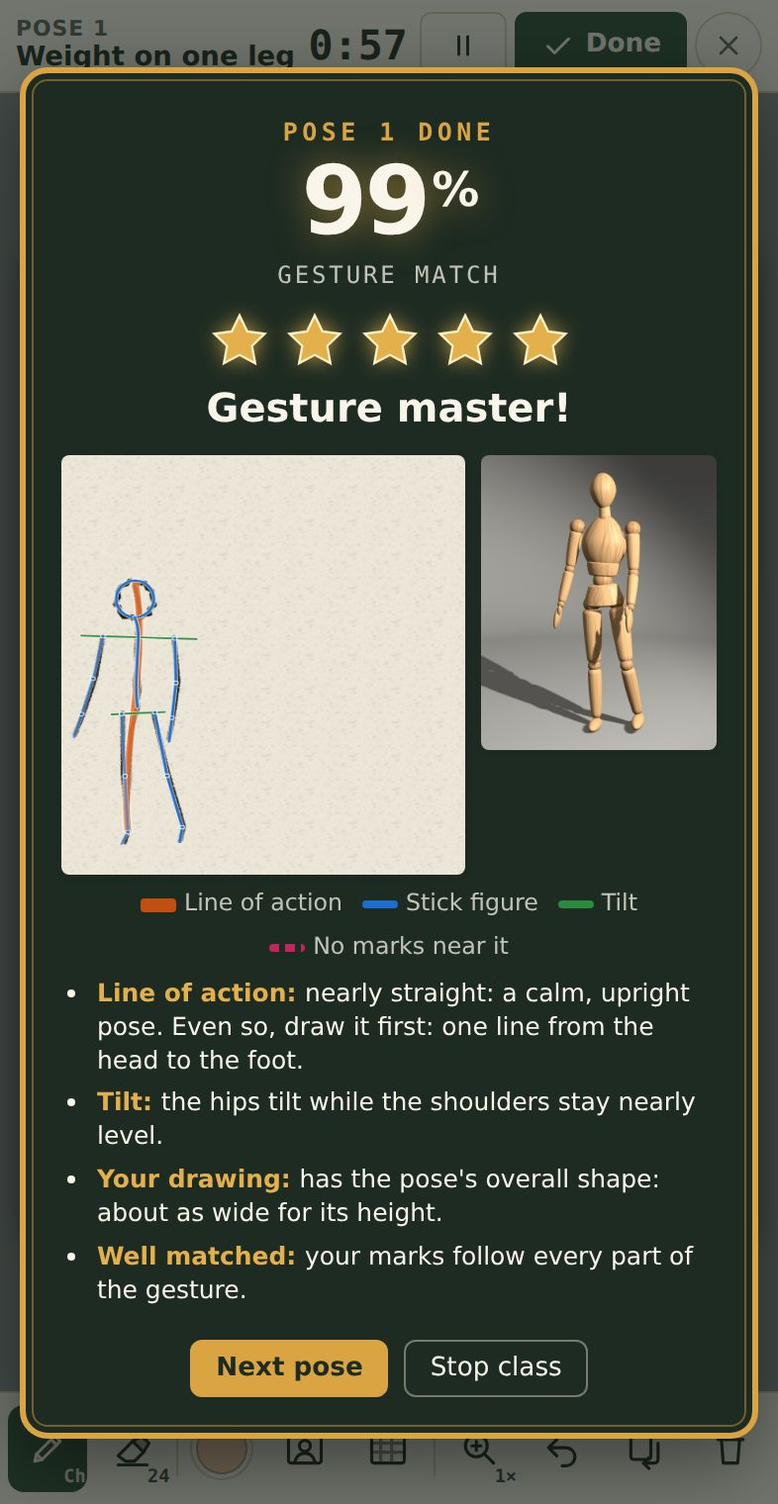
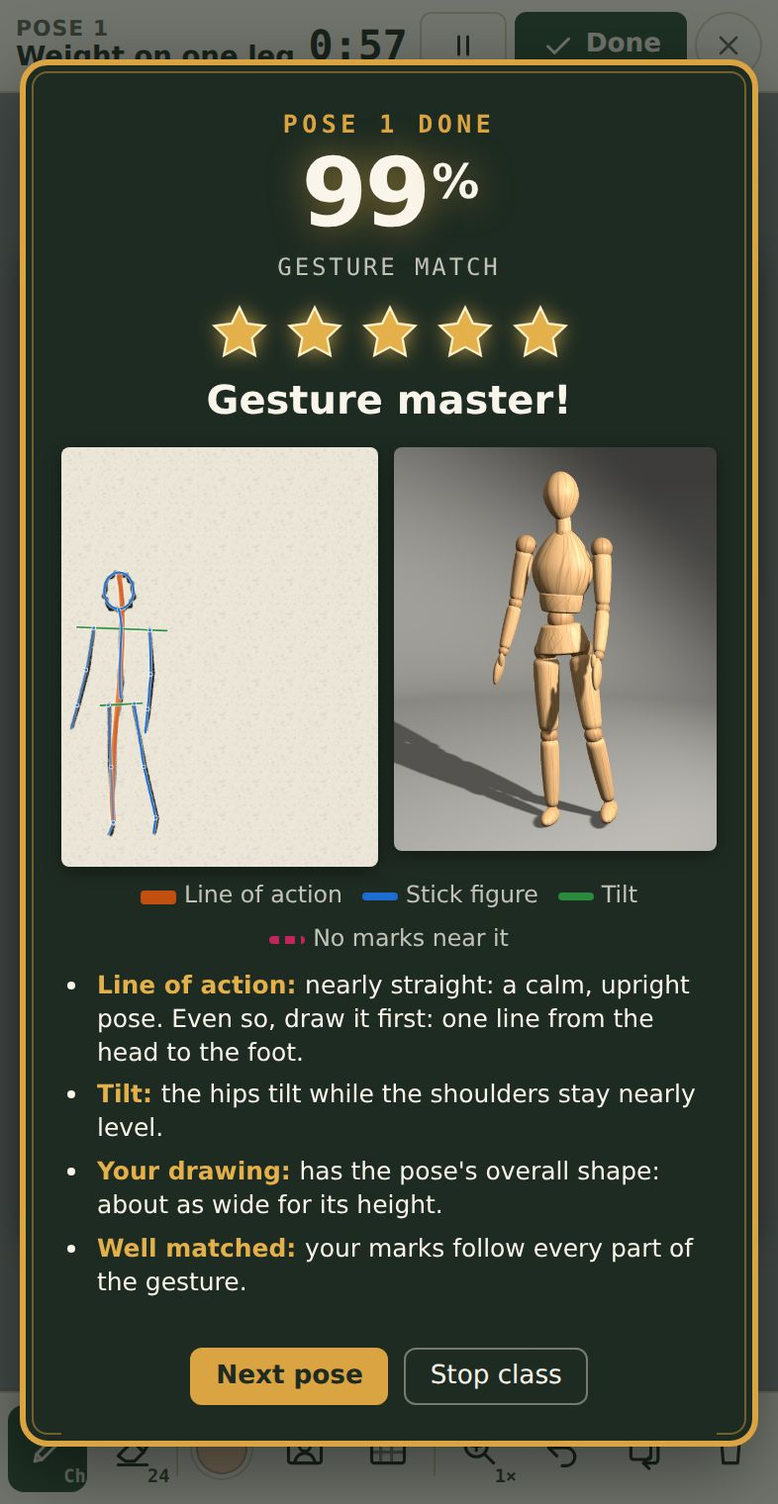
Figure study: fixes from review of the score card
- Drawing the cast shadow the reference shows no longer sinks the
  stars, and a name, a label or a line across the sheet is left out of
  the drawing's shape (only shadow patches touching the figure count,
  so the studio's dark edges are not taken for one).
- When something other than a dashed part takes the stars down, the
  card says so (Extra marks, Off the figure) instead of "Well matched".
- A thin, light line on a small drawing is no longer missed.
- The card's buttons wait 0.6 s, so a tap already on its way does not
  stop the class; they stay in view at the bottom of the card on short
  screens; the drawing on it keeps its shape.
- Screen readers hear the score (the status line is outside the part
  that goes inert); the card is no longer marked modal; the review's
  stars are read out; "your saved poses" and "1 star" read right.
- The library catches up with poses saved in Pose and light during a
  class, and Timed reads "a time limit on each pose".

Claude-Session: https://claude.ai/code/session_01XVREo3r8Hxw4H8arPAzQN1

Changed region(s): [[0.0305, 0.0309, 0.9771, 0.9895]]

diff --git a/js/figure.js b/js/figure.js
@@ -38,6 +38,7 @@
   panel.appendChild(root);
   root.insertBefore($('bar'), root.firstChild);
   root.appendChild($('result'));
+  panel.appendChild($('say'));         // (outside the studio, which goes inert behind the card)
   const studio = PaintStudio.create({
     root, prefix: 'fs-', bodyClass: 'figure-focus', followStudy: false, autosave: false,
     mixesKey: 'portrait-value-studio.figureMixes', fileName: 'figure-drawing.png', refSize: 0.42,
@@ -174,7 +175,7 @@
     panel.querySelectorAll('.fig-group-btn').forEach((b) => {
       const ids = poses.filter((q) => q.group === b.dataset.group).map((q) => q.id), anyIn = ids.some((id) => !out.has(id));
       b.textContent = anyIn ? 'Take these out' : 'Put these back';
-      b.setAttribute('aria-label', `${anyIn ? 'Take out' : 'Put back'} the ${b.dataset.title.toLowerCase()} poses`);
+      b.setAttribute('aria-label', `${anyIn ? 'Take out' : 'Put back'} ${b.dataset.group === 'mine' ? 'your saved poses' : `the ${b.dataset.title.toLowerCase()} poses`}`);
     });
     const n = pool().length, all = poses ? poses.length : 0;
     if (poses) $('mix').textContent = n === all ? `All ${all} poses are in the class, in a random order. Tap a pose, or a group's button, to take it out.` : n ? `${n} of the ${all} poses are in the class, in a random order.` : 'Every pose is out of the class. Tap one to put it back.';
@@ -343,6 +344,8 @@
     hideResult();
     studio.setLocked(false);
     cls = null;
+    // the poses saved in Pose and light may have changed during the class
+    if (poses) tellFrame({ type: 'pose-and-light:list' });
     // a class with nothing drawn in it goes straight back to the setup (the drawings before stay)
     if (!c.results.some((r) => r.analysis.marked)) { show('setup'); showSetup(); $('start').focus(); return; }
     last = c;
@@ -478,11 +481,14 @@
   // have any mark in them; x0, y0 is where the grid starts on the paper
   const GRID = 240;
   function inkMap(ink, r) {
+    const whole = !r;
     r = r || { x: 0, y: 0, w: ink.width, h: ink.height };
     const s = Math.min(1, GRID / Math.max(r.w, r.h));
     const w = Math.max(1, Math.round(r.w * s)), h = Math.max(1, Math.round(r.h * s));
     const c = document.createElement('canvas'); c.width = w; c.height = h;
     const x = c.getContext('2d', { willReadFrequently: true });
+    // (the whole sheet is shrunk a lot: averaged, so a thin light line is not skipped between samples)
+    if (whole) x.imageSmoothingQuality = 'high';
     x.drawImage(ink, r.x, r.y, r.w, r.h, 0, 0, w, h);
     const d = x.getImageData(0, 0, w, h).data, on = new Uint8Array(w * h);
     let n = 0;
@@ -526,7 +532,7 @@
     const on = new Uint8Array(w * h);
     let n = 0;
     for (let i = 0; i < w * h; i++) if (m.on[i] && keep[label[i]]) { on[i] = 1; n++; }
-    return { w, h, s: m.s, x0: m.x0, y0: m.y0, on, n };
+    return { w, h, s: m.s, x0: m.x0, y0: m.y0, on, n, label, pieces: sizes.length };
   }
   // how far each cell is from the nearest mark, in cells (two sweeps, steps of 3 straight and 4 across)
   function distances(m) {
@@ -560,8 +566,9 @@
     return out;
   }
   // The wooden figure's own shape in its reference picture (the wood, told from the gray studio by its
-  // color), as a grid of cells and how far each is from the figure. Made once for a pose, when its picture
-  // has been loaded (shot.img).
+  // color), as a grid of cells and how far each is from the figure, and its cast shadow on the floor
+  // (gray, darker than the floor, in the lower half, touching the figure, and a little past its soft
+  // edge). Made once for a pose, when its picture has been loaded (shot.img).
   function figureMask(shot) {
     if (shot.mask !== undefined) return shot.mask;
     if (!shot.img) return null;
@@ -569,9 +576,34 @@
     const c = document.createElement('canvas'); c.width = w; c.height = h;
     const x = c.getContext('2d', { willReadFrequently: true });
     x.drawImage(shot.img, 0, 0, w, h);
-    const px = x.getImageData(0, 0, w, h).data, on = new Uint8Array(w * h);
-    for (let i = 0; i < w * h; i++) { const r = px[i * 4], b = px[i * 4 + 2]; on[i] = r - b > 20 && r > 55 ? 1 : 0; }
-    shot.mask = { w, h, s, d: distances({ w, h, on }) };
+    const px = x.getImageData(0, 0, w, h).data, on = new Uint8Array(w * h), cast = new Uint8Array(w * h);
+    for (let i = 0; i < w * h; i++) {
+      const r = px[i * 4], gr = px[i * 4 + 1], b = px[i * 4 + 2];
+      on[i] = r - b > 20 && r > 55 ? 1 : 0;
+      cast[i] = !on[i] && Math.abs(r - b) < 12 && 0.3 * r + 0.59 * gr + 0.11 * b < 110 && i >= w * Math.floor(h * 0.5) ? 1 : 0;
+    }
+    const dc = distances({ w, h, on: cast }), d = distances({ w, h, on });
+    for (let i = 0; i < w * h; i++) cast[i] = !on[i] && dc[i] <= 3 ? 1 : 0;
+    // only the patches that touch the figure, as a cast shadow does (the studio's dark edges do not)
+    let x0 = w, x1 = 0, y0 = h, y1 = 0;
+    for (let i = 0; i < w * h; i++) if (on[i]) { const x = i % w, y = Math.floor(i / w); x0 = Math.min(x0, x); x1 = Math.max(x1, x); y0 = Math.min(y0, y); y1 = Math.max(y1, y); }
+    const near = 0.1 * Math.max(1, x1 - x0, y1 - y0), seen = new Uint8Array(w * h), stack = [];
+    for (let start = 0; start < w * h; start++) {
+      if (!cast[start] || seen[start]) continue;
+      const patch = [];
+      let low = Infinity;
+      seen[start] = 1; stack.push(start);
+      while (stack.length) {
+        const c = stack.pop(), x = c % w, y = (c - x) / w;
+        patch.push(c); low = Math.min(low, d[c]);
+        if (x > 0 && cast[c - 1] && !seen[c - 1]) { seen[c - 1] = 1; stack.push(c - 1); }
+        if (x < w - 1 && cast[c + 1] && !seen[c + 1]) { seen[c + 1] = 1; stack.push(c + 1); }
+        if (y > 0 && cast[c - w] && !seen[c - w]) { seen[c - w] = 1; stack.push(c - w); }
+        if (y < h - 1 && cast[c + w] && !seen[c + w]) { seen[c + w] = 1; stack.push(c + w); }
+      }
+      if (low > near) patch.forEach((c) => { cast[c] = 0; });
+    }
+    shot.mask = { w, h, s, d, cast };
     return shot.mask;
   }
   /*
@@ -583,7 +615,7 @@
   function analyze(shot, ink) {
     const g = gestureOf(shot), W = ink.width, H = ink.height;
     const m0 = inkMap(ink), marked = m0.n >= 25;
-    let map, match = null, inkBox = null, score = 0, scoreParts = null;
+    let map, match = null, inkBox = null, shapeBox = null, score = 0, scoreParts = null;
     const kRef = Math.min(W / shot.w, H / shot.h);
     const refMap = { k: kRef, ox: (W - shot.w * kRef) / 2, oy: (H - shot.h * kRef) / 2 };
     if (marked) {
@@ -688,26 +720,49 @@
       // how near a cell of the grid is to the figure in the reference: its distance from the wood, as a
       // part of the gesture's size, turned into credit
       const fig = figureMask(shot);
-      const onFigure = fig && ((cx2, cy2) => {
+      // a cell of the grid, in the reference's figure mask (-1 off it)
+      const figCell = (cx2, cy2) => {
         const x = Math.round(((m.x0 + (cx2 + 0.5) / m.s) - map.ox) / map.k * fig.s), y = Math.round(((m.y0 + (cy2 + 0.5) / m.s) - map.oy) / map.k * fig.s);
-        if (x < 0 || y < 0 || x >= fig.w || y >= fig.h) return 0;
-        const f = fig.d[y * fig.w + x] / fig.s / g.size;
-        return Math.max(0, Math.min(1, 1 - (f - 0.02) / 0.03));
+        return x < 0 || y < 0 || x >= fig.w || y >= fig.h ? -1 : y * fig.w + x;
+      };
+      const onFigure = fig && ((cx2, cy2) => {
+        const i = figCell(cx2, cy2);
+        return i < 0 ? 0 : Math.max(0, Math.min(1, 1 - (fig.d[i] / fig.s / g.size - 0.02) / 0.03));
       });
+      // the cast shadow, as the reference shows it: drawing it is no scribble, and no part of the figure
+      const onCast = (cx2, cy2) => { if (!fig) return false; const i = figCell(cx2, cy2); return i >= 0 && fig.cast[i] === 1; };
       // how much of the room around the figure (inside the drawing's box) has marks in it: a drawing
-      // leaves it nearly empty (a floor line, a cast shadow), a scribble fills it as much as the figure
+      // leaves it nearly empty (a floor line, the cast shadow), a scribble fills it as much as the figure
       let room = 0, filled = 0;
       if (fig) {
         for (let y = b.y; y < b.y + b.h; y++) for (let x = b.x; x < b.x + b.w; x++) {
-          const fx = Math.round(((m.x0 + (x + 0.5) / m.s) - map.ox) / map.k * fig.s), fy = Math.round(((m.y0 + (y + 0.5) / m.s) - map.oy) / map.k * fig.s);
-          const off = fx < 0 || fy < 0 || fx >= fig.w || fy >= fig.h || fig.d[fy * fig.w + fx] / fig.s / g.size > 0.06;
-          if (off) { room++; if (m.on[y * m.w + x]) filled++; }
+          const i = figCell(x, y), off = i < 0 || fig.d[i] / fig.s / g.size > 0.06;
+          if (off && !onCast(x, y)) { room++; if (m.on[y * m.w + x]) filled++; }
         }
       }
       const clean = room > 20 ? Math.max(0, Math.min(1, 1 - (filled / room - 0.04) / 0.12)) : 1;
-      ({ score, ...scoreParts } = scoreOf(g, samples.map(({ key, p }) => ({ key, d: at(map, p) })), unitPx, inkPts, g.parts.map((part) => part.pts.map((q) => [gx(map.ox + q.x * map.k), gy(map.oy + q.y * map.k)])), inkBox, onFigure, clean, Object.values(match).filter((ok) => !ok).length));
+      // The drawing's own box, for its overall shape: the pieces of marks that are mostly on the figure
+      // (a name, a label or a line across the sheet is not part of it), leaving out the cast shadow.
+      shapeBox = inkBox;
+      if (fig) {
+        const onIt = new Uint32Array(main.pieces), all = new Uint32Array(main.pieces);
+        for (let i = 0; i < m.w * m.h; i++) {
+          if (!main.on[i]) continue;
+          const x = i % m.w, y = Math.floor(i / m.w);
+          all[main.label[i]]++;
+          if (onFigure(x, y) > 0) onIt[main.label[i]]++;
+        }
+        const kept = { w: m.w, h: m.h, on: new Uint8Array(m.w * m.h), n: 0 };
+        for (let i = 0; i < m.w * m.h; i++) {
+          if (!main.on[i] || onIt[main.label[i]] < 0.3 * all[main.label[i]] || onCast(i % m.w, Math.floor(i / m.w))) continue;
+          kept.on[i] = 1; kept.n++;
+        }
+        if (kept.n >= 25) { const kb = boxOf(kept); shapeBox = { x: m.x0 + kb.x / m.s, y: m.y0 + kb.y / m.s, w: kb.w / m.s, h: kb.h / m.s }; }
+      }
+      const figPts = inkPts.filter(([px, py]) => !onCast(px, py));
+      ({ score, ...scoreParts } = scoreOf(g, samples.map(({ key, p }) => ({ key, d: at(map, p) })), unitPx, figPts, g.parts.map((part) => part.pts.map((q) => [gx(map.ox + q.x * map.k), gy(map.oy + q.y * map.k)])), shapeBox, onFigure, clean, Object.values(match).filter((ok) => !ok).length));
     } else map = refMap;
-    return { g, map, match, inkBox, marked, score, scoreParts, stars: marked ? starsFor(score) : 0, tips: notes(g, marked ? inkBox : null, match) };
+    return { g, map, match, inkBox, marked, score, scoreParts, stars: marked ? starsFor(score) : 0, tips: notes(g, marked ? shapeBox : null, match, scoreParts) };
   }
   /*
    * How well a drawing follows its pose's gesture, from 0 to 100 (all lengths are parts of the gesture's
@@ -756,7 +811,7 @@
   const GRADES = ['Keep drawing', 'Keep drawing', 'Getting there', 'Good gesture', 'Strong gesture!', 'Gesture master!'];
   const starsFor = (pct) => STARS.filter((min) => pct >= min).length;
   // what to look for: the line of action, the tilts, the size in heads, the drawing's shape, missed parts
-  function notes(g, inkBox, match) {
+  function notes(g, inkBox, match, sp) {
     const tips = [], P = g.P, head = g.head.a * 2, a = g.action;
     const lean = Math.abs(Math.atan2(a.p3.x - a.p0.x, a.p3.y - a.p0.y)) * 180 / Math.PI, slant = Math.min(lean, 180 - lean);
     tips.push(['Line of action', {
@@ -787,7 +842,11 @@
           : 'has the pose\'s overall shape: about as wide for its height.']);
       const missed = g.parts.filter((p) => match[p.key] === false).map((p) => p.name);
       const list = missed.length > 1 ? `${missed.slice(0, -1).join(', ')} and ${missed[missed.length - 1]}` : missed[0];
-      tips.push(missed.length ? ['Dashed', `no marks near ${list}. Look again at where ${missed.length > 1 ? 'they go' : 'it goes'}.`] : ['Well matched', 'your marks follow every part of the gesture.']);
+      // (praise only when nothing else took the stars down: marks around the figure, or off it)
+      if (missed.length) tips.push(['Dashed', `no marks near ${list}. Look again at where ${missed.length > 1 ? 'they go' : 'it goes'}.`]);
+      else if (sp && sp.clean < 0.9) tips.push(['Extra marks', 'marks fill the space around the figure, and they count against the match. Draw the figure, and leave the room around it empty.']);
+      else if (sp && sp.along < 0.8) tips.push(['Off the figure', 'much of your drawing lies off the figure. Keep your marks on the body, the head and the limbs.']);
+      else tips.push(['Well matched', 'your marks follow every part of the gesture.']);
     } else tips.push(['Nothing drawn', 'the gesture is shown where the reference would sit.']);
     return tips;
   }
@@ -802,7 +861,9 @@
   // Under it the drawing with the gesture over it, beside the pose, and the notes. The rest of the
   // studio waits behind it until Next pose or Stop class.
   const reduceMotion = window.matchMedia('(prefers-reduced-motion: reduce)');
-  let resultShown = false, countUp = 0;
+  let resultShown = false, countUp = 0, cardAt = 0;
+  // a tap already on its way when the card comes, or a second Enter on Done, does not answer it
+  const cardSettled = () => performance.now() - cardAt >= 600;
   function drawWithGesture(canvas, r, img) {
     const g = canvas.getContext('2d');
     g.drawImage(img, 0, 0, canvas.width, canvas.height);
@@ -812,6 +873,7 @@
   function showResult(r, timedOut) {
     const a = r.analysis, pct = a.score, stars = a.stars;
     resultShown = true;
+    cardAt = performance.now();
     $('kicker').textContent = timedOut ? 'Time’s up!' : `Pose ${r.n} done`;
     $('grade').textContent = a.marked ? GRADES[stars] : 'Nothing drawn';
     $('stars').setAttribute('aria-label', `${stars} out of 5 stars, ${pct}% gesture match`);
@@ -843,7 +905,7 @@
       };
       countUp = requestAnimationFrame(step);
     }
-    $('say').textContent = `${$('kicker').textContent} ${r.name}: ${a.marked ? `${stars} out of 5 stars, ${pct}% gesture match. ${GRADES[stars]}` : 'nothing drawn'}.`;
+    $('say').textContent = `${$('kicker').textContent} ${r.name}: ${a.marked ? `${stars} out of 5 stars, ${pct}% gesture match. ${GRADES[stars]}` : 'nothing drawn'}`.replace(/([^!.])$/, '$1.');
     $('nextPose').focus({ preventScroll: true });
   }
   function hideResult() {
@@ -853,13 +915,13 @@
     [...root.children].forEach((el) => { el.inert = false; });
   }
   $('nextPose').addEventListener('click', () => {
-    if (!cls || !resultShown) return;
+    if (!cls || !resultShown || !cardSettled()) return;
     $('nextPose').disabled = true;            // (one pose for one tap)
     hideResult();
     $('done').focus({ preventScroll: true });
     showPose();
   });
-  $('stop').addEventListener('click', () => { if (cls) finish(); });
+  $('stop').addEventListener('click', () => { if (cls && cardSettled()) finish(); });
 
   // ---- The review ------------------------------------------------------------------------------------
 
@@ -873,7 +935,8 @@
   function showReview(c) {
     const list = drawn(c), n = list.length;
     const avg = list.reduce((sum, r) => sum + r.analysis.stars, 0) / n;
-    $('reviewLede').textContent = `${n} drawing${n > 1 ? 's' : ''} from ${c.mode === 'timed' ? `a timed class, ${TIMES[c.secs]} a pose` : 'a relaxed class'}, ${half(avg)} star${avg === 1 ? '' : 's'} on average. Each is beside the pose it was drawn from, with the pose's gesture laid over it.`;
+    const shown = half(avg);
+    $('reviewLede').textContent = `${n} drawing${n > 1 ? 's' : ''} from ${c.mode === 'timed' ? `a timed class, ${TIMES[c.secs]} a pose` : 'a relaxed class'}, ${shown} star${shown === '1' || shown === '½' ? '' : 's'} on average. Each is beside the pose it was drawn from, with the pose's gesture laid over it.`;
     const box = $('cards');
     box.textContent = '';
     list.forEach((r, i) => {
@@ -900,8 +963,10 @@
       st.className = 'fig-rating-stars';
       st.textContent = starText(r.analysis.stars);
       st.setAttribute('aria-hidden', 'true');
-      rating.append(st, ` ${r.analysis.score}% · ${GRADES[r.analysis.stars]}`);
-      rating.setAttribute('aria-label', `${r.analysis.stars} out of 5 stars, ${r.analysis.score}% gesture match`);
+      const said = document.createElement('span');
+      said.className = 'visually-hidden';
+      said.textContent = `${r.analysis.stars} out of 5 stars,`;
+      rating.append(st, said, ` ${r.analysis.score}% · ${GRADES[r.analysis.stars]}`);
       const tips = document.createElement('ul');
       tips.className = 'fig-tips';
       showTips(tips, r.analysis.tips.filter(([lead]) => lead !== 'Measure'));
@@ -959,5 +1024,5 @@
   showSetup();
 
   // for tests
-  window.FigureStudy = { gestureOf, fitCurve, analyze, drawGesture, studio, state: () => cls, poses: () => poses, shotOf, starsFor };
+  window.FigureStudy = { gestureOf, fitCurve, analyze, drawGesture, studio, state: () => cls, poses: () => poses, shotOf, starsFor, figureMaskOf: figureMask };
 })();

diff --git a/index.html b/index.html
@@ -601,7 +601,7 @@
               <legend>Class</legend>
               <div class="seg seg-full game-levels" role="radiogroup" aria-label="Class">
                 <input type="radio" name="figClass" id="fig-relaxed" value="relaxed" checked><label for="fig-relaxed">Relaxed<small>no time limit</small></label>
-                <input type="radio" name="figClass" id="fig-timed" value="timed"><label for="fig-timed">Timed<small>a new pose on the clock</small></label>
+                <input type="radio" name="figClass" id="fig-timed" value="timed"><label for="fig-timed">Timed<small>a time limit on each pose</small></label>
               </div>
             </fieldset>
             <fieldset class="field" id="fig-times" hidden>
@@ -655,7 +655,7 @@
         </div>
         <!-- the card after each pose, over the paper -->
         <div class="fig-result" id="fig-result" hidden>
-          <div class="game-popup fig-popup" id="fig-popup" role="dialog" aria-modal="true" aria-labelledby="fig-kicker">
+          <div class="game-popup fig-popup" id="fig-popup" role="dialog" aria-labelledby="fig-kicker" aria-describedby="fig-stars fig-grade">
             <p class="game-kicker" id="fig-kicker">Pose 1 done</p>
             <p class="game-pct"><span id="fig-pct">0</span><span class="game-pct-sign">%</span></p>
             <p class="game-pct-label">gesture match</p>
@@ -1108,8 +1108,8 @@
           </div>
           <div class="help-shots">
             <figure class="phone"><img src="img/help/figure-setup.jpg" alt="The Figure study setup on a phone: Timed, with 1 minute a pose, 27 of the 30 poses in the class, and the pose library with a tick on each pose in it" loading="lazy"><figcaption>Setting up a class</figcaption></figure>
-            <figure class="phone"><img src="img/help/figure-draw.jpg" alt="Drawing the Lunge pose: the bar with the clock and Done on top, the reference in the corner and a quick charcoal gesture drawing on the paper" loading="lazy"><figcaption>Drawing a pose</figcaption></figure>
-            <figure class="phone"><img src="img/help/figure-card.jpg" alt="The card after the pose: 99% gesture match, five stars and Gesture master!, the drawing with the blue stick figure, orange line of action and green tilt lines over it beside the pose, the notes, and Next pose and Stop class" loading="lazy"><figcaption>The card after each pose</figcaption></figure>
+            <figure class="phone"><img src="img/help/figure-draw.jpg" alt="Drawing a pose: the bar with the pose, the clock and Done on top, the reference in the corner and a quick charcoal gesture drawing on the paper" loading="lazy"><figcaption>Drawing a pose</figcaption></figure>
+            <figure class="phone"><img src="img/help/figure-card.jpg" alt="The card after a pose: the gesture match, five stars and Gesture master!, the drawing with the blue stick figure, orange line of action and green tilt lines over it beside the pose, the notes, and Next pose and Stop class" loading="lazy"><figcaption>The card after each pose</figcaption></figure>
             <figure class="phone"><img src="img/help/figure-review.jpg" alt="The review after the class: each drawing beside its pose, with its stars, the gesture over it and its notes" loading="lazy"><figcaption>The review</figcaption></figure>
           </div>
         </section>

diff --git a/styles.css b/styles.css
@@ -1529,8 +1529,10 @@ output { font: 500 0.8rem var(--mono); color: var(--muted); font-variant-numeric
 .fig-popup .game-pct { font-size: 3.6rem; }
 .fig-popup .game-stars { margin: 4px 0 0; }
 .fig-popup .game-star { width: 32px; height: 32px; }
-.fig-popup-pair { margin-top: 6px; grid-template-columns: auto auto; justify-content: center; }
-.fig-popup-pair canvas, .fig-popup-pair img { width: auto; max-width: 100%; max-height: 32vh; box-shadow: 0 2px 8px rgba(0, 0, 0, 0.4); }
+.fig-popup .fig-popup-pair { margin-top: 6px; grid-template-columns: auto auto; justify-content: center; }
+.fig-popup .fig-popup-pair canvas, .fig-popup .fig-popup-pair img { width: auto; height: auto; max-width: 100%; max-height: 32vh; box-shadow: 0 2px 8px rgba(0, 0, 0, 0.4); }
+/* Next pose and Stop class stay in view at the bottom of the card while the rest scrolls under them */
+.fig-popup .game-popup-actions { position: sticky; bottom: -18px; justify-self: stretch; margin-bottom: -18px; padding: 8px 0 18px; background: #1e2b22; }
 .fig-popup .fig-key { justify-content: center; color: rgba(250, 245, 234, 0.75); }
 .fig-popup .fig-tips { justify-self: stretch; text-align: left; color: #faf5ea; }
 .fig-popup .fig-tips strong { color: #e3b04b; }
@@ -1547,7 +1549,7 @@ output { font: 500 0.8rem var(--mono); color: var(--muted); font-variant-numeric
   .fig-acts { gap: 4px; }
   .fig-studio .ps-status { display: none; }
   .fig-popup .game-pct { font-size: 3rem; }
-  .fig-popup-pair canvas, .fig-popup-pair img { max-height: 28vh; }
+  .fig-popup .fig-popup-pair canvas, .fig-popup .fig-popup-pair img { max-height: 28vh; }
   .fig-popup .fig-tips { font-size: 0.78rem; }
 }
 

diff --git a/README.md b/README.md
@@ -98,8 +98,8 @@ Figure study, the fourth section, is a drawing class with the wooden figure from
 2. **The poses** are the whole pose library, with pictures, and the poses saved in Pose and light. Every pose starts in the class (with a tick); tap one to take it out, or a group's button (**Take these out**, **Put these back**) for the whole group, or **Take them all out** to start from none. They are dealt in a shuffled order, shuffled again when they run out, never the same pose twice in a row, and the next pose's picture is drawn while you work on this one. The class, the time and the poses taken out are remembered.
 3. **After each pose** a card pops up over the paper, as the games' score does: the gesture match counts up, the stars pop in, then a word for them (Keep drawing, Getting there, Good gesture, Strong gesture!, Gesture master!), at the games' thresholds (88, 78, 65, 50 and 30% for five to one stars). Under it are the drawing with the pose's gesture laid over it, beside the pose, a few notes, and **Next pose** or **Stop class**. The studio waits behind the card.
    - **The gesture** is a stick figure from the model's joints (the head as an oval, the spine, the arms and legs, a dot at each joint, the far limbs fainter), the line of action (one Bézier curve fitted from the top of the head through the spine to the foot the body stands on, called straight, a C or an S by how far it bows) and the shoulder and hip lines. It is fitted to the marks: the box around them (leaving out specks and stray marks apart from the drawing) gives first sizes and places (to fit it, its height alone, its width alone, larger, with the boxes meeting at a corner, a side or the middle, and where the reference would sit), a spread of sizes and places is tried around each, and the best few are polished, measuring both how near the marks come to the gesture and how near the gesture comes to the marks, so it settles inside an outline drawing as well as on a stick figure. The marks are measured on a grid over the drawing and the room around it, so a small drawing is measured as finely as a large one. A part with no marks near half its length is dashed.
-   - **The gesture match** puts together how much of the gesture has marks along it (each part counting for its share: the body most, then the legs, the arms and the head, with full credit within its allowance and none at twice that) and how much of the drawing lies on the figure (against the wooden figure's own shape in the reference, so an outline and shading count), as their harmonic mean, so neither can make up for the other. It is taken down a little when the drawing is not as wide for its height as the pose, by 18% for each dashed part, and to nothing when the room around the figure is filled (a scribble).
-   - **The notes** give the line of action, the tilt of the shoulders and hips (the body's own, from the model, so a three-quarter view's perspective does not fake one), whether the drawing is as wide for its height as the pose, and which parts are dashed.
+   - **The gesture match** puts together how much of the gesture has marks along it (each part counting for its share: the body most, then the legs, the arms and the head, with full credit within its allowance and none at twice that) and how much of the drawing lies on the figure (against the wooden figure's own shape in the reference, so an outline and shading count), as their harmonic mean, so neither can make up for the other. It is taken down a little when the drawing is not as wide for its height as the pose, by 18% for each dashed part, and to nothing when the room around the figure is filled (a scribble, or a toned background). The cast shadow the reference shows (the gray patches on the floor that touch the figure) can be drawn without cost, and a name, a label or a line across the sheet is left out of the drawing's shape. The card's buttons wait 0.6 s after it appears, so a tap already on its way does not answer it.
+   - **The notes** give the line of action, the tilt of the shoulders and hips (the body's own, from the model, so a three-quarter view's perspective does not fake one), whether the drawing is as wide for its height as the pose, and which parts are dashed, or else what else took the stars down (marks filling the room around the figure, or much of the drawing off the figure), or that it is well matched.
 4. **When the class stops** (**Stop class** on the card, or ✕ twice during a pose), every drawing comes back beside its pose, with its stars, its gesture (which can be hidden) and its notes, the class's average stars, and **Save as PNG** for each. **Draw again** starts the same class over; after **New class**, **Back to your drawings** returns to them until the next class starts. A class with nothing drawn goes straight back to the setup.
 
 The pictures come from Pose and light itself: the app opens `pose.html?render=1` in a hidden frame when the tab first opens. In that mode the page shows nothing and keeps nothing; it answers `pose-and-light:list` with the library (and the poses saved in this browser) and then each pose's picture, and `pose-and-light:render` with a pose's reference picture (600 × 750, the figure filling it with a little room all round, lit high from the front left, as the library's pictures are), where each joint lands in it, and the true tilt of its shoulders and hips.
